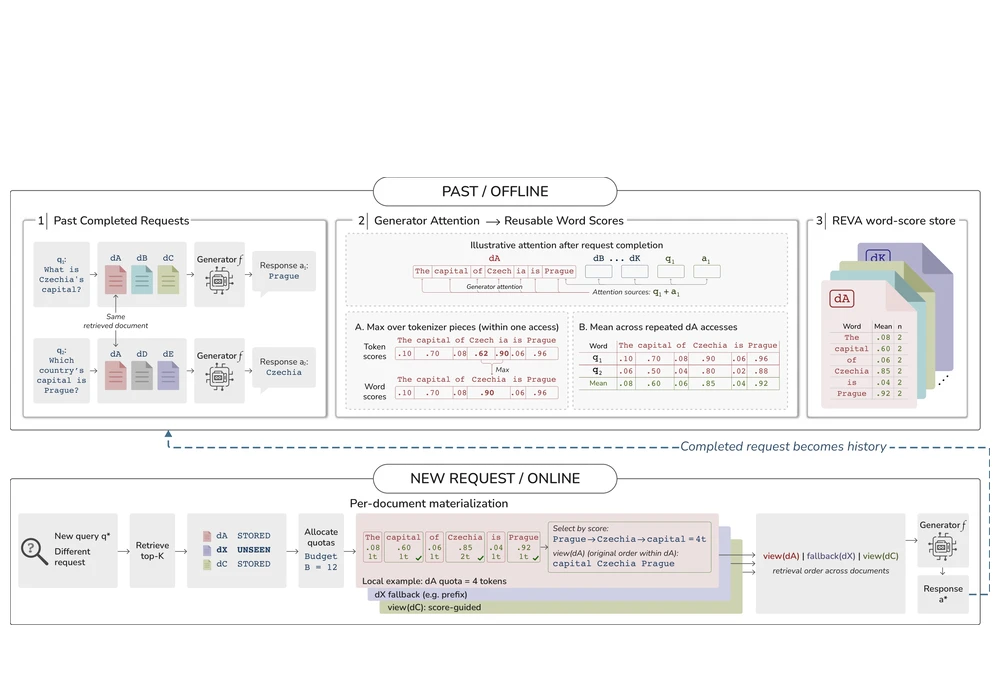
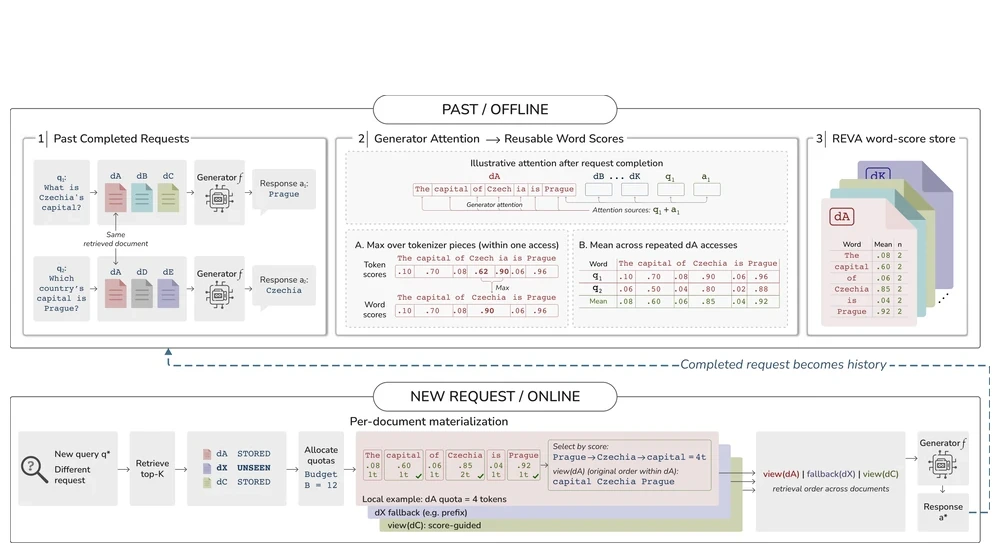
Add a rocket that rides the timeline on scroll
Fill the timeline line as the reader scrolls. Add a DateRange component and new AC3S and REVA figures.

Changed region(s): [[0.0, 0.1841, 0.992, 0.9819], [0.899, 0.8899, 0.992, 0.9513], [0.93, 0.5217, 0.961, 0.5523]]

diff --git a/src/components/ui/Timeline.tsx b/src/components/ui/Timeline.tsx
@@ -1,16 +1,60 @@
+import { useLayoutEffect, useRef, useState } from "react"
+import { motion, useScroll, useSpring, useTransform } from "framer-motion"
+import { Rocket } from "lucide-react"
 import type { ContentCard } from "@/data/content"
 import { ContentBullets } from "@/components/ui/ContentBullets"
 import { ContentLinks } from "@/components/ui/ContentLinks"
+import { DateRange } from "@/components/ui/DateRange"
+import { useReducedMotion } from "@/hooks/useReducedMotion"
 import { isCurrentDateRange } from "@/utils/cards"
 
 interface TimelineProps {
   items: ContentCard[]
 }
 
+// The line is 2px wide at left 15px and the dots are 12px wide at left 10px, so both centre on x = 16px.
+const LINE_CLASS = "absolute left-[15px] top-2 bottom-2 w-0.5 bg-gray-200"
+
 export function Timeline({ items }: TimelineProps) {
+  const prefersReducedMotion = useReducedMotion()
+  const containerRef = useRef<HTMLDivElement>(null)
+  const lineRef = useRef<HTMLDivElement>(null)
+  const [lineHeight, setLineHeight] = useState(0)
+
+  useLayoutEffect(() => {
+    const line = lineRef.current
+    if (!line) return
+    const measure = () => setLineHeight(line.getBoundingClientRect().height)
+    measure()
+    const observer = new ResizeObserver(measure)
+    observer.observe(line)
+    return () => observer.disconnect()
+  }, [])
+
+  // The rocket sits where the viewport's 65% mark crosses the timeline, like the Memoria pilot section.
+  const { scrollYProgress } = useScroll({ target: containerRef, offset: ["start 0.65", "end 0.65"] })
+  const progress = useSpring(scrollYProgress, { stiffness: 100, damping: 30, restDelta: 0.001 })
+  const rocketY = useTransform(progress, [0, 1], [0, lineHeight])
+
   return (
-    <div className="relative">
-      <div className="absolute left-4 top-2 bottom-2 w-0.5 bg-gray-200" />
+    <div ref={containerRef} className="relative">
+      <div ref={lineRef} className={LINE_CLASS}>
+        {!prefersReducedMotion && (
+          <motion.div
+            className="absolute inset-x-0 top-0 h-full origin-top bg-gradient-to-b from-accent to-accent/60"
+            style={{ scaleY: progress }}
+          />
+        )}
+      </div>
+
+      {!prefersReducedMotion && (
+        <motion.div aria-hidden className="pointer-events-none absolute left-4 top-2 z-10" style={{ y: rocketY, x: "-50%" }}>
+          <span className="relative block -translate-y-1/2">
+            <span className="absolute left-1/2 -top-3 h-7 w-7 -translate-x-1/2 rounded-full bg-accent/35 blur-md" />
+            <Rocket className="relative h-5 w-5 rotate-[135deg] text-accent" strokeWidth={2} fill="white" />
+          </span>
+        </motion.div>
+      )}
 
       <div className="space-y-8">
         {items.map((item, index) => {
@@ -45,11 +89,7 @@ export function Timeline({ items }: TimelineProps) {
                           {item.subtitle}
                         </p>
                       )}
-                      {item.date && (
-                        <span className={`text-sm font-medium flex-shrink-0 text-right ${isPresent ? "text-accent-dark" : "text-gray-500"}`}>
-                          {item.date}
-                        </span>
-                      )}
+                      {item.date && <DateRange date={item.date} className="flex-shrink-0 text-right" />}
                     </div>
                   )}
                 </div>

diff --git a/src/data/content.ts b/src/data/content.ts
@@ -10,7 +10,7 @@ export type ContentCard = {
   date?: string
   bullets: string[]
   links?: ContentLink[]
-  image?: { src: string; alt: string }
+  image?: { src: string; alt: string; width?: number; height?: number }
   badge?: string
   authors?: string[]
   venue?: string
@@ -35,7 +35,7 @@ const PUBLICATIONS: Publication[] = [
     authors: ["Eric Ji", "Qiran Hu", "Wufei Ma", "Sarthak Jain", "Yingying Li", "Minh N. Do", "Yaoyao Liu"],
     venue: "European Conference on Computer Vision (ECCV), 2026",
     badge: "ECCV",
-    image: { src: "/images/papers/ac3s.webp", alt: "AC3S pipeline: visual prompt extractor, adaptive modulator, image generator, and multi-agent VLM" },
+    image: { src: "/images/papers/ac3s.webp", width: 779, height: 653, alt: "AC3S pipeline: visual prompt extractor, adaptive modulator, image generator, and multi-agent VLM" },
     links: [
       { label: "arXiv", url: "https://arxiv.org/abs/2606.31204" },
       { label: "Code", url: "https://ac3s.cvmlgroup.web.illinois.edu/" },
@@ -48,7 +48,7 @@ const PUBLICATIONS: Publication[] = [
     authors: ["Tuan Nguyen", "Qiran Hu", "Banruo Liu", "Khoa D. Doan", "Kok-Seng Wong", "Fan Lai"],
     venue: "IEEE International Conference on Data Mining (ICDM), 2026",
     badge: "ICDM",
-    image: { src: "/images/papers/reva.webp", alt: "Three charts from the paper: online overhead per query across five compressors, F1 change over global truncation on four QA datasets, and the share of queries that re-access a stored document" },
+    image: { src: "/images/papers/reva.webp", width: 1000, height: 554, alt: "Three charts from the paper: online overhead per query across five compressors, F1 change over global truncation on four QA datasets, and the share of queries that re-access a stored document" },
     links: [
       { label: "arXiv", url: "https://arxiv.org/abs/2609.11209" },
       { label: "Code", url: "https://github.com/UIUC-MLSys/REVA" },
@@ -196,10 +196,10 @@ export const NEWS: NewsItem[] = [
   {
     date: "September 2026",
     segments: [
-      { text: "I presented our " },
-      { text: "AC3S poster", href: "https://eccv.ecva.net/virtual/2026/poster/5183" },
-      { text: " at " },
-      { text: "ECCV 2026", href: "https://eccv.ecva.net/Conferences/2026" },
+      { text: "I am honored to present our poster " },
+      { text: "AC3S: Adaptive Conditioning for 3D-Aware Synthetic Data Generation", href: "https://eccv.ecva.net/virtual/2026/poster/5183" },
+      { text: " at the " },
+      { text: "European Conference on Computer Vision (ECCV) 2026", href: "https://eccv.ecva.net/Conferences/2026" },
       { text: " in " },
       { text: "Malmö, Sweden", href: "https://eccv.ecva.net/Conferences/2026/Venues" },
       { text: ", " },

diff --git a/index.html b/index.html
@@ -67,7 +67,7 @@
       </section>
       <section id="news">
       <h2>News</h2>
-      <ul><li><strong>September 2026</strong>: I presented our <a href="https://eccv.ecva.net/virtual/2026/poster/5183">AC3S poster</a> at <a href="https://eccv.ecva.net/Conferences/2026">ECCV 2026</a> in <a href="https://eccv.ecva.net/Conferences/2026/Venues">Malmö, Sweden</a>, <a href="https://eccv.ecva.net/virtual/2026/poster/5183">ExHall #107 on September 12</a>.</li><li><strong>August 2026</strong>: Our paper <a href="https://arxiv.org/abs/2609.11209">REVA: Reusable Evidence View Aggregation for Context-Efficient RAG Serving</a> is accepted to the <a href="https://www.datamining.org/">IEEE International Conference on Data Mining (ICDM) 2026</a>.</li><li><strong>June 2026</strong>: Our paper <a href="https://arxiv.org/abs/2606.31204">AC3S: Adaptive Conditioning for 3D-Aware Synthetic Data Generation</a> is accepted to the <a href="https://eccv.ecva.net/">European Conference on Computer Vision (ECCV) 2026</a>.</li></ul>
+      <ul><li><strong>September 2026</strong>: I am honored to present our poster <a href="https://eccv.ecva.net/virtual/2026/poster/5183">AC3S: Adaptive Conditioning for 3D-Aware Synthetic Data Generation</a> at the <a href="https://eccv.ecva.net/Conferences/2026">European Conference on Computer Vision (ECCV) 2026</a> in <a href="https://eccv.ecva.net/Conferences/2026/Venues">Malmö, Sweden</a>, <a href="https://eccv.ecva.net/virtual/2026/poster/5183">ExHall #107 on September 12</a>.</li><li><strong>August 2026</strong>: Our paper <a href="https://arxiv.org/abs/2609.11209">REVA: Reusable Evidence View Aggregation for Context-Efficient RAG Serving</a> is accepted to the <a href="https://www.datamining.org/">IEEE International Conference on Data Mining (ICDM) 2026</a>.</li><li><strong>June 2026</strong>: Our paper <a href="https://arxiv.org/abs/2606.31204">AC3S: Adaptive Conditioning for 3D-Aware Synthetic Data Generation</a> is accepted to the <a href="https://eccv.ecva.net/">European Conference on Computer Vision (ECCV) 2026</a>.</li></ul>
       </section>
       <section id="research-interests">
       <h2>Research Interests</h2>

diff --git a/src/components/ui/PublicationCard.tsx b/src/components/ui/PublicationCard.tsx
@@ -43,7 +43,7 @@ export function PublicationCard({ publication }: PublicationCardProps) {
   const primary = primaryLink(publication)
   const thumbnail = publication.image ? (
     <figure className="paper-thumb">
-      <img src={publication.image.src} alt={publication.image.alt} loading="lazy" width={1000} height={700} />
+      <img src={publication.image.src} alt={publication.image.alt} loading="lazy" width={publication.image.width ?? 1000} height={publication.image.height ?? 700} />
       {publication.badge && (
         <span className={publication.badge === "Under Review" ? "paper-badge paper-badge-muted" : "paper-badge"}>{publication.badge}</span>
       )}
@@ -53,7 +53,7 @@ export function PublicationCard({ publication }: PublicationCardProps) {
   return (
     <article className="card flex flex-col gap-5 md:flex-row md:items-start md:gap-7">
       {thumbnail && (
-        <div className="w-full max-w-[380px] flex-shrink-0 md:w-[360px]">
+        <div className="w-full flex-shrink-0 md:w-[360px]">
           {primary ? (
             <a href={primary.url} target="_blank" rel="noopener noreferrer" aria-label={`${publication.title} (${primary.label})`}>
               {thumbnail}

diff --git a/src/pages/ProjectsPage.tsx b/src/pages/ProjectsPage.tsx
@@ -2,6 +2,7 @@ import { BentoGrid } from "@/components/ui/BentoGrid"
 import { BentoItem } from "@/components/ui/BentoItem"
 import { ContentBullets } from "@/components/ui/ContentBullets"
 import { LinkChip } from "@/components/ui/ContentLinks"
+import { DateRange } from "@/components/ui/DateRange"
 import { SectionHeader } from "@/components/ui/SectionHeader"
 import { SECTIONS } from "@/data/content"
 import { splitLinksByLabel } from "@/utils/cards"
@@ -34,11 +35,7 @@ export function ProjectsPage() {
                         {project.subtitle}
                       </p>
                     )}
-                    {project.date && (
-                      <div className="text-xs text-gray-400 flex-shrink-0 bg-gray-100/80 px-2 py-1 rounded-full ml-auto">
-                        {project.date}
-                      </div>
-                    )}
+                    {project.date && <DateRange date={project.date} className="ml-auto flex-shrink-0" />}
                   </div>
                 </div>
 

diff --git a/src/components/ui/Card.tsx b/src/components/ui/Card.tsx
@@ -1,6 +1,7 @@
 import type { ContentCard } from "@/data/content"
 import { ContentBullets } from "@/components/ui/ContentBullets"
 import { ContentLinks } from "@/components/ui/ContentLinks"
+import { DateRange } from "@/components/ui/DateRange"
 
 interface CardProps {
   card: ContentCard
@@ -23,7 +24,7 @@ export function Card({ card }: CardProps) {
         {(card.location || card.date) && (
           <div className="text-sm text-gray-500 text-right flex-shrink-0">
             {card.location && <div>{card.location}</div>}
-            {card.date && <div className="font-medium">{card.date}</div>}
+            {card.date && <DateRange date={card.date} className="block" />}
           </div>
         )}
       </div>

diff --git a/src/styles/globals.css b/src/styles/globals.css
@@ -155,7 +155,6 @@
 
   .paper-thumb {
     @apply relative m-0 overflow-hidden rounded-xl border border-primary/10 bg-white transition-all duration-200;
-    aspect-ratio: 10 / 7;
     container-type: inline-size;
     box-shadow:
       0 12px 28px -12px rgba(19, 41, 75, 0.45),
@@ -163,7 +162,7 @@
   }
 
   .paper-thumb img {
-    @apply block h-full w-full object-cover object-top;
+    @apply block h-auto w-full;
   }
 
   a:hover .paper-thumb {

diff --git a/src/components/ui/DateRange.tsx b/src/components/ui/DateRange.tsx
@@ -1,0 +1,11 @@
+import { cn } from "@/utils/cn"
+
+interface DateRangeProps {
+  date: string
+  className?: string
+}
+
+// Every date range on the site (research, experience, projects) renders through this one style.
+export function DateRange({ date, className }: DateRangeProps) {
+  return <span className={cn("text-sm font-medium tabular-nums text-gray-500", className)}>{date}</span>
+}
